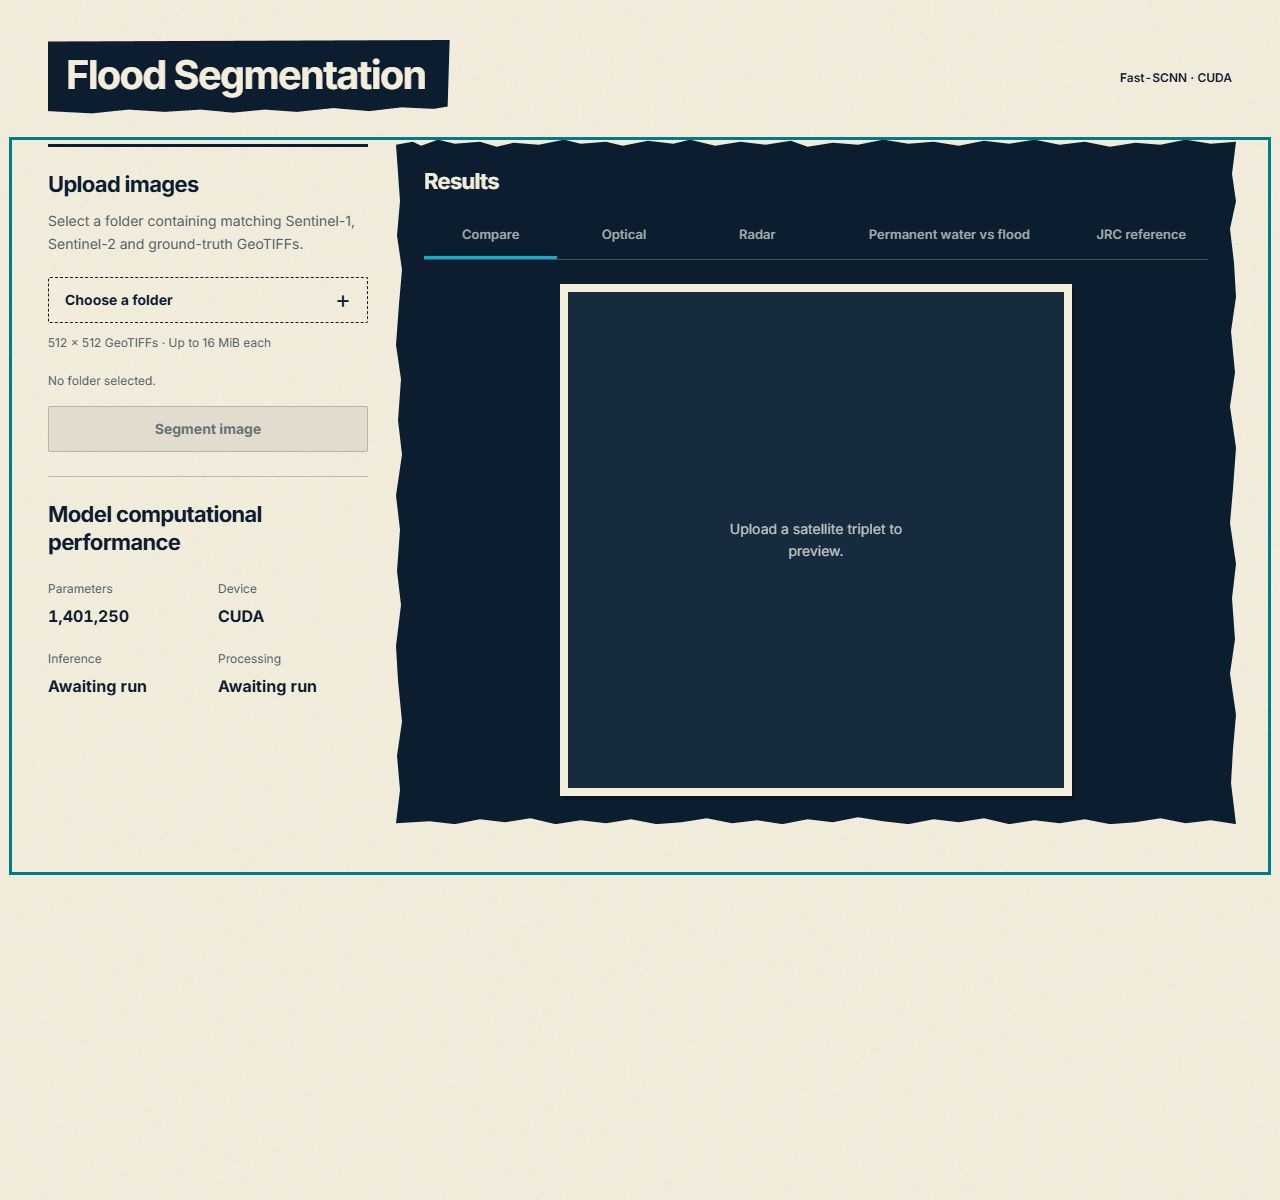
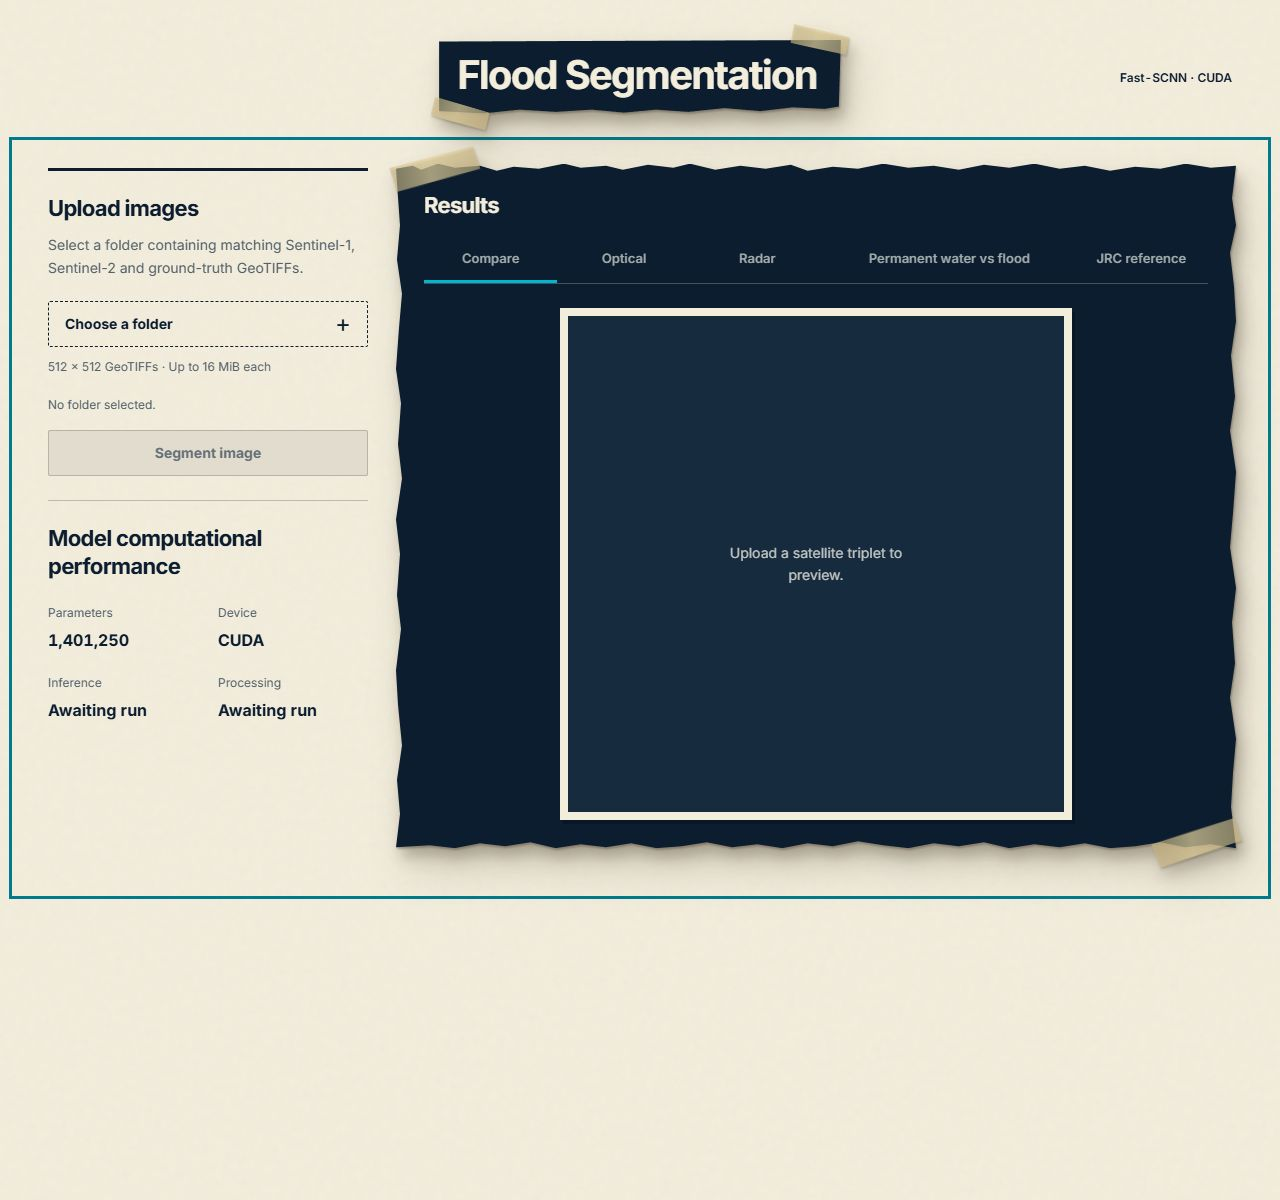
Refine paper panels and show measured prediction performance

diff --git a/frontend/src/App.jsx b/frontend/src/App.jsx
@@ -46,7 +46,7 @@ export default function App() {
 
   return <>
     <a className="skip-link" href="#workspace">Skip to workspace</a>
-    <header className="site-header"><h1>Flood Segmentation</h1><span className="device-label">{info ? `Fast-SCNN · ${info.device.toUpperCase()}` : serviceError ? 'Service offline' : 'Connecting…'}</span></header>
+    <header className="site-header"><h1>Flood Segmentation<span className="paper-tape tape-start" aria-hidden="true" /><span className="paper-tape tape-end" aria-hidden="true" /></h1><span className="device-label">{info ? `Fast-SCNN · ${info.device.toUpperCase()}` : serviceError ? 'Service offline' : 'Connecting…'}</span></header>
     <main id="workspace" tabIndex={-1}>
       <Workspace info={info} serviceError={serviceError} refreshService={refreshService} />
     </main>
@@ -152,6 +152,8 @@ function Workspace({ info, serviceError, refreshService }) {
         </div>
 
           <section className="hud-panel results-panel" aria-labelledby="viewer-title" aria-busy={busy}>
+            <span className="paper-tape tape-start" aria-hidden="true" />
+            <span className="paper-tape tape-end" aria-hidden="true" />
             <div className="viewer-heading"><h2 id="viewer-title" ref={resultHeading} tabIndex={-1}>Results</h2>{preview && <span className="image-size">{preview.width} × {preview.height} px</span>}</div>
             {pair && <p className="tile-name">{pair.tileId}</p>}
             <div className="view-tabs hand-view-tabs" role="group" aria-label="Image view">{Object.entries(viewLabels).map(([key, label]) => <button key={key} className={`view-tab ${view === key ? 'active' : ''} ${key === 'permanent_flood' ? 'permanent-flood-tab' : ''}`} aria-pressed={view === key} disabled={!source || (key === 'permanent_flood' && !result) || (['permanent_flood', 'jrc'].includes(key) && !separation?.available)} onClick={() => setView(key)}>{label}</button>)}</div>
@@ -168,7 +170,11 @@ function Workspace({ info, serviceError, refreshService }) {
             </div>
             {source && <div className="viewer-caption"><span>{view === 'compare' ? 'White: water · Black: background · Grey: excluded' : view === 'rgb' ? 'Sentinel-2 · RGB' : view === 'radar' ? 'Sentinel-1 · VV radar' : view === 'jrc' ? 'Blue: JRC permanent-water reference · Black: outside reference · Grey: no data' : 'Blue: detected permanent water · Red: candidate floodwater · Black: background · Grey: no data'}</span>{result && <span>{result.inference_ms.toFixed(0)} ms · {result.device.toUpperCase()}</span>}</div>}
             {separation && !separation.available && <p className="separation-note" role="status">Permanent-water separation unavailable. {separation.reason}</p>}
-            {result?.evaluation && <section className="evaluation-panel" aria-label="Full-image comparison against uploaded ground truth"><h3>Full-image comparison against uploaded ground truth</h3><dl className="evaluation-metrics">{[['Water IoU', 'iou'], ['Dice', 'dice'], ['Pixel accuracy', 'pixel_accuracy']].map(([label, key]) => <div key={key}><dt>{label}</dt><dd>{formatMetric(result.evaluation[key])}</dd></div>)}</dl><p>{result.evaluation.evaluated_pixels.toLocaleString('en-US')} evaluated pixels · {result.evaluation.excluded_pixels.toLocaleString('en-US')} excluded</p></section>}
+            {result?.evaluation && <section className="evaluation-panel" aria-label="Prediction performance"><h3>Prediction performance</h3><dl className="evaluation-metrics">
+              <div><dt>Water IoU</dt><dd>{formatMetric(result.evaluation.iou)}</dd></div>
+              <div><dt>Inference time</dt><dd>{result.inference_ms.toFixed(1)} ms</dd></div>
+              <div title="Peak PyTorch GPU memory allocated during this prediction, including model and tensors. Unavailable on CPU."><dt>Memory used (MB)</dt><dd>{result.memory_mb == null ? 'N/A' : result.memory_mb.toFixed(2)}</dd></div>
+            </dl></section>}
             {result && separation?.available && <div className="download-actions" aria-label="Download water separation"><button className="button secondary" onClick={() => saveUrl(separation.mask_png, `${result.tile_id}_permanent_water_vs_flood.png`)}>Permanent water vs flood PNG</button><button className="button secondary" onClick={() => geotiffDownload(separation.classes_geotiff_base64, `${result.tile_id}_permanent_water_vs_flood.tif`)}>Permanent water vs flood GeoTIFF</button><button className="button secondary" onClick={() => geotiffDownload(separation.candidate_flood_geotiff_base64, `${result.tile_id}_candidate_flood.tif`)}>Candidate flood GeoTIFF</button></div>}
           </section>
       </div>

diff --git a/frontend/src/styles.css b/frontend/src/styles.css
@@ -38,11 +38,12 @@ button:disabled { cursor: not-allowed; }
 a { color: inherit; }
 :focus-visible { outline: 3px solid #007b8c; outline-offset: 4px; }
 h1, h2, h3, p { margin: 0; }
-.site-header { max-width: 1248px; padding: 40px 32px 28px; margin: 0 auto; display: flex; justify-content: space-between; align-items: center; gap: 24px; }
+.site-header { max-width: 1248px; padding: 40px 32px 28px; margin: 0 auto; display: grid; grid-template-columns: minmax(0, 1fr) auto minmax(0, 1fr); align-items: center; gap: 24px; }
+.site-header h1 { grid-column: 2; justify-self: center; }
 h1 { position: relative; isolation: isolate; padding: 14px 24px 18px 18px; color: var(--paper); font-size: clamp(28px, 3.1vw, 42px); font-weight: 800; letter-spacing: -1.6px; line-height: 1.1; }
 h1::before { content: ''; position: absolute; inset: 0; z-index: -1; background: var(--ink); clip-path: polygon(0 2%, 100% 0, 99.5% 88%, 96% 91%, 88% 89%, 80% 94%, 71% 90%, 62% 95%, 54% 92%, 46% 96%, 38% 92%, 29% 95%, 20% 92%, 11% 97%, 0 94%); }
-.device-label { font-size: 12px; font-weight: 600; white-space: nowrap; font-variant-numeric: tabular-nums; }
-main { max-width: 1248px; margin: 0 auto; padding: 0 32px 48px; }
+.device-label { grid-column: 3; justify-self: end; font-size: 12px; font-weight: 600; white-space: nowrap; font-variant-numeric: tabular-nums; }
+main { max-width: 1248px; margin: 0 auto; padding: 24px 32px 48px; }
 .workspace-grid { display: grid; grid-template-columns: 320px minmax(0, 1fr); align-items: start; gap: 32px; }
 .sidebar { display: flex; flex-direction: column; min-width: 0; border-top: 3px solid var(--ink); }
 .hud-panel { min-width: 0; padding: 24px 0; }
@@ -79,6 +80,26 @@ h3 { font-size: 14px; font-weight: 650; line-height: 1.5; }
 .view-tab.active { border-bottom-color: var(--accent); color: var(--ink); }
 .view-tab:disabled { color: #657079; }
 .results-panel { position: relative; isolation: isolate; padding: 24px; color: var(--paper); --muted: #c1c6c4; --line: rgb(243 237 220 / .25); }
+h1, .results-panel {
+  filter: drop-shadow(1px 2px 1px rgb(49 38 19 / .32))
+          drop-shadow(5px 10px 7px rgb(49 38 19 / .28))
+          drop-shadow(10px 20px 18px rgb(49 38 19 / .16));
+}
+.paper-tape {
+  position: absolute;
+  width: 88px;
+  height: 26px;
+  z-index: 1;
+  pointer-events: none;
+  background: linear-gradient(100deg, rgb(210 190 132 / .55), rgb(228 210 157 / .7) 45%, rgb(213 192 135 / .58));
+  box-shadow: 0 1px 2px rgb(74 57 23 / .12);
+  clip-path: polygon(0 4%, 98% 0, 100% 91%, 2% 100%);
+}
+.tape-start { top: -12px; left: -9px; transform: rotate(-14deg); }
+.tape-end { bottom: -12px; right: -9px; transform: rotate(-17deg); }
+h1 .paper-tape { width: 58px; height: 20px; }
+h1 .tape-start { top: -10px; left: auto; right: -8px; transform: rotate(14deg); }
+h1 .tape-end { bottom: -8px; right: auto; left: -8px; transform: rotate(17deg); }
 /* Tear only the backing sheet so image pixels and focus outlines stay intact. */
 .results-panel::before {
   content: '';
@@ -162,10 +183,11 @@ h3 { font-size: 14px; font-weight: 650; line-height: 1.5; }
   .results-panel { padding: 20px; }
 }
 @media (max-width: 700px) {
-  .site-header { padding: 24px 20px; flex-wrap: wrap; gap: 12px; }
+  .site-header { padding: 24px 20px; grid-template-columns: minmax(0, 1fr); gap: 12px; }
+  .site-header h1, .device-label { grid-column: 1; }
   h1 { font-size: 30px; letter-spacing: -1.2px; padding: 12px 18px 16px 12px; }
   .device-label { margin-left: auto; }
-  main { padding: 0 20px 28px; }
+  main { padding: 24px 20px 28px; }
   .workspace-grid { display: flex; flex-direction: column; gap: 24px; }
   .sidebar { display: contents; }
   .hud-panel { width: 100%; }

diff --git a/tests/test_inference.py b/tests/test_inference.py
@@ -28,7 +28,7 @@ def test_all_fifteen_pairs_produce_full_spatially_aligned_masks(service, records
     for item in records:
         folder = ROOT / "sample" / item["folder"]
         pair = read_pair((folder / item["s1"]).read_bytes(), (folder / item["s2"]).read_bytes(), item["s1"], item["s2"], service.statistics)
-        mask, elapsed = service.predict(pair)
+        mask, elapsed, memory = service.predict(pair)
         assert mask.shape == (512, 512)
         assert set(np.unique(mask)).issubset({0, 1, 255})
         assert elapsed > 0
@@ -42,7 +42,7 @@ def test_all_fifteen_pairs_produce_full_spatially_aligned_masks(service, records
 
 
 def test_patch_placement_matches_each_independent_forward(service, pair):
-    mask, _ = service.predict(pair)
+    mask, _, _ = service.predict(pair)
     with torch.inference_mode():
         for row in (0, 256):
             for col in (0, 256):
@@ -66,6 +66,8 @@ def test_cuda_matches_cpu_classification(service, pair):
         pytest.skip("No CUDA device exposed to this runtime")
     gpu = Predictor(ROOT)
     assert gpu.device.type == "cuda"
-    cpu_mask, _ = service.predict(pair)
-    gpu_mask, _ = gpu.predict(pair)
+    cpu_mask, _, cpu_memory = service.predict(pair)
+    gpu_mask, _, gpu_memory = gpu.predict(pair)
+    assert cpu_memory is None
+    assert gpu_memory > 0
     assert np.mean(cpu_mask == gpu_mask) > 0.9999

diff --git a/backend/inference.py b/backend/inference.py
@@ -48,6 +48,7 @@ class Predictor:
         with self.lock, torch.inference_mode():
             if self.device.type == "cuda":
                 torch.cuda.synchronize()
+                torch.cuda.reset_peak_memory_stats(self.device)
             started = time.perf_counter()
             for row in (0, 256):
                 for col in (0, 256):
@@ -58,8 +59,9 @@ class Predictor:
             if self.device.type == "cuda":
                 torch.cuda.synchronize()
             elapsed = (time.perf_counter() - started) * 1000
+            memory_mb = torch.cuda.max_memory_allocated(self.device) / 1_000_000 if self.device.type == "cuda" else None
         if not np.isfinite(probability).all():
             raise RuntimeError("Fast-SCNN produced nonfinite predictions.")
         mask = (probability > self.info["threshold"]).astype(np.uint8)
         mask[~pair.valid] = 255
-        return mask, elapsed
+        return mask, elapsed, memory_mb

diff --git a/backend/main.py b/backend/main.py
@@ -135,7 +135,7 @@ async def preview(request: Request, s1: UploadFile = File(...), s2: UploadFile =
 
 
 def predict_result(pair, service, started, reference=None):
-    mask, inference_ms = service.predict(pair)
+    mask, inference_ms, memory_mb = service.predict(pair)
     images = result_images(pair, mask)
     geotiff = geotiff_base64(pair, mask)
     separation = separation_result(pair, mask, ROOT)
@@ -146,6 +146,7 @@ def predict_result(pair, service, started, reference=None):
     return {"tile_id": pair.tile_id, "width": 512, "height": 512, "device": str(service.device),
             "threshold": 0.5, "patch_count": 4, "inference_ms": round(inference_ms, 2),
             "processing_ms": round((time.perf_counter() - started) * 1000, 2),
+            "memory_mb": round(memory_mb, 2) if memory_mb is not None else None,
             "images": images, "mask_geotiff_base64": geotiff, "water_separation": separation, **extra}
 
 

diff --git a/tests/test_api.py b/tests/test_api.py
@@ -63,6 +63,7 @@ def test_prediction_and_download_formats(client, sample_files):
     result = response.json()
     assert result["patch_count"] == 4
     assert result["width"] == result["height"] == 512
+    assert result["memory_mb"] is None
     assert result["inference_ms"] > 0
     assert result["processing_ms"] >= result["inference_ms"]
     for value in result["images"].values():
@@ -126,7 +127,7 @@ def test_invalid_pixels_stay_finite_and_are_not_background(service, sample_files
         pair = read_pair(a, modified.read(), item["s1"], item["s2"], service.statistics)
     assert np.isfinite(pair.tensor).all()
     assert np.all(pair.tensor[2:, :20, :20] == 0)
-    mask, _ = service.predict(pair)
+    mask, _, _ = service.predict(pair)
     assert np.all(mask[:20, :20] == 255)
 
 

diff --git a/tests/test_evaluation.py b/tests/test_evaluation.py
@@ -182,7 +182,7 @@ def test_empty_water_metrics_serialize_as_null(client, service, hand_files):
     filename, blob, _ = hand_files["ground_truth"]
     background = reference_blob(blob, values=np.zeros((512, 512), dtype=np.int16))
     files = {**hand_files, "ground_truth": (filename, background, "image/tiff")}
-    with patch.object(service, "predict", return_value=(np.zeros((512, 512), dtype=np.uint8), 1.0)):
+    with patch.object(service, "predict", return_value=(np.zeros((512, 512), dtype=np.uint8), 1.0, None)):
         result = client.post("/api/hand-test/predict", files=files)
     assert result.status_code == 200
     assert result.json()["evaluation"]["iou"] is None
